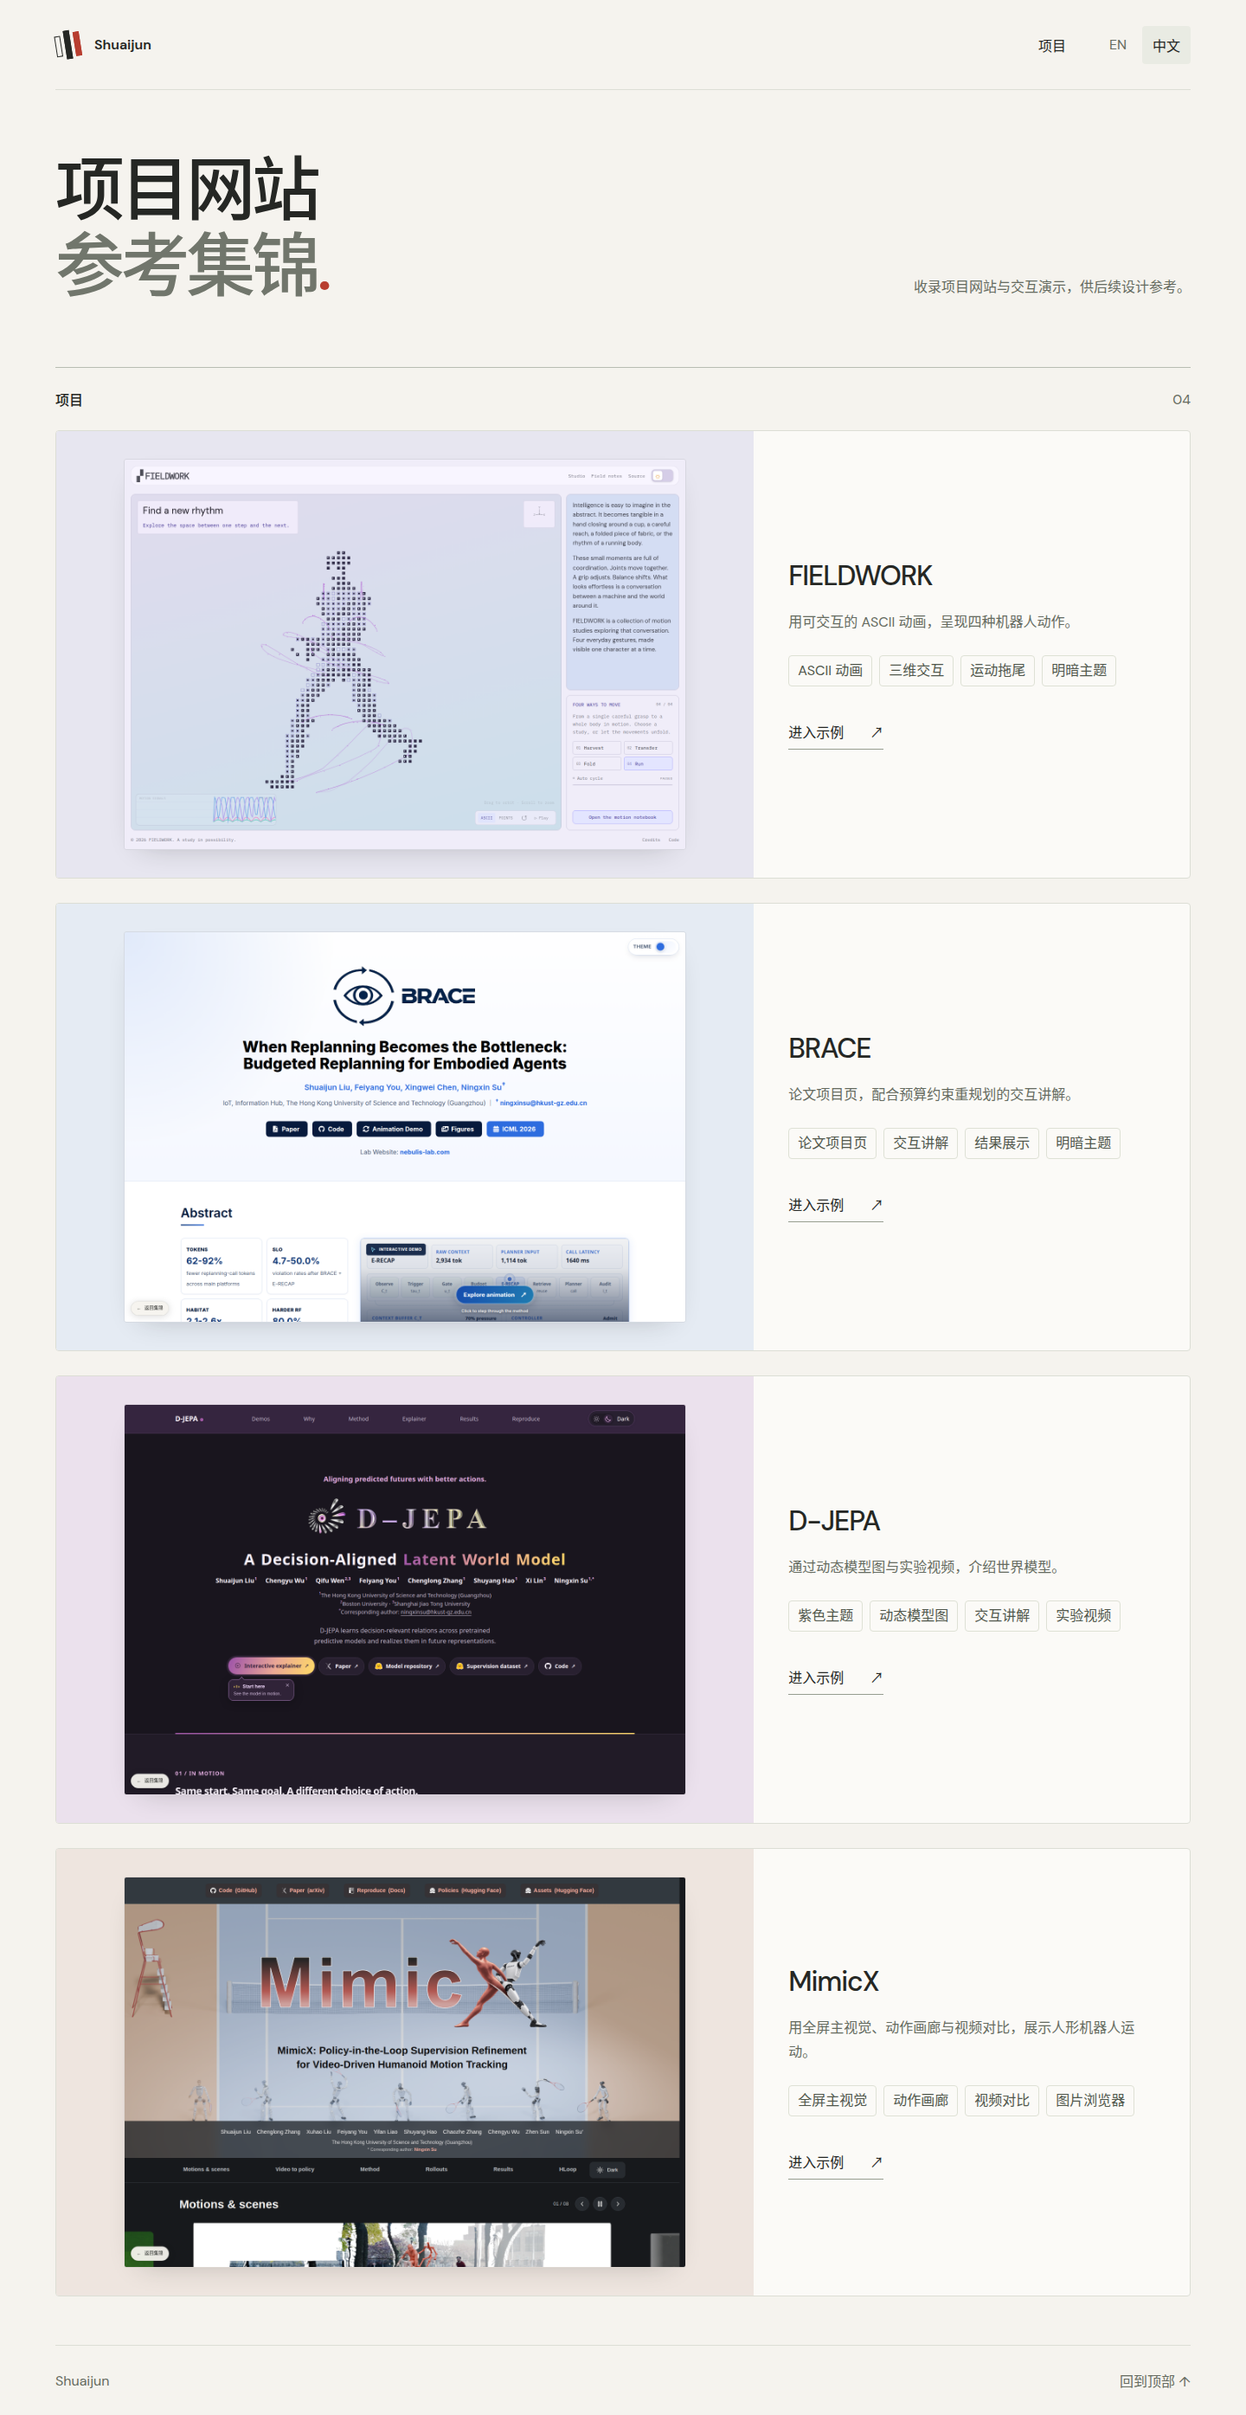
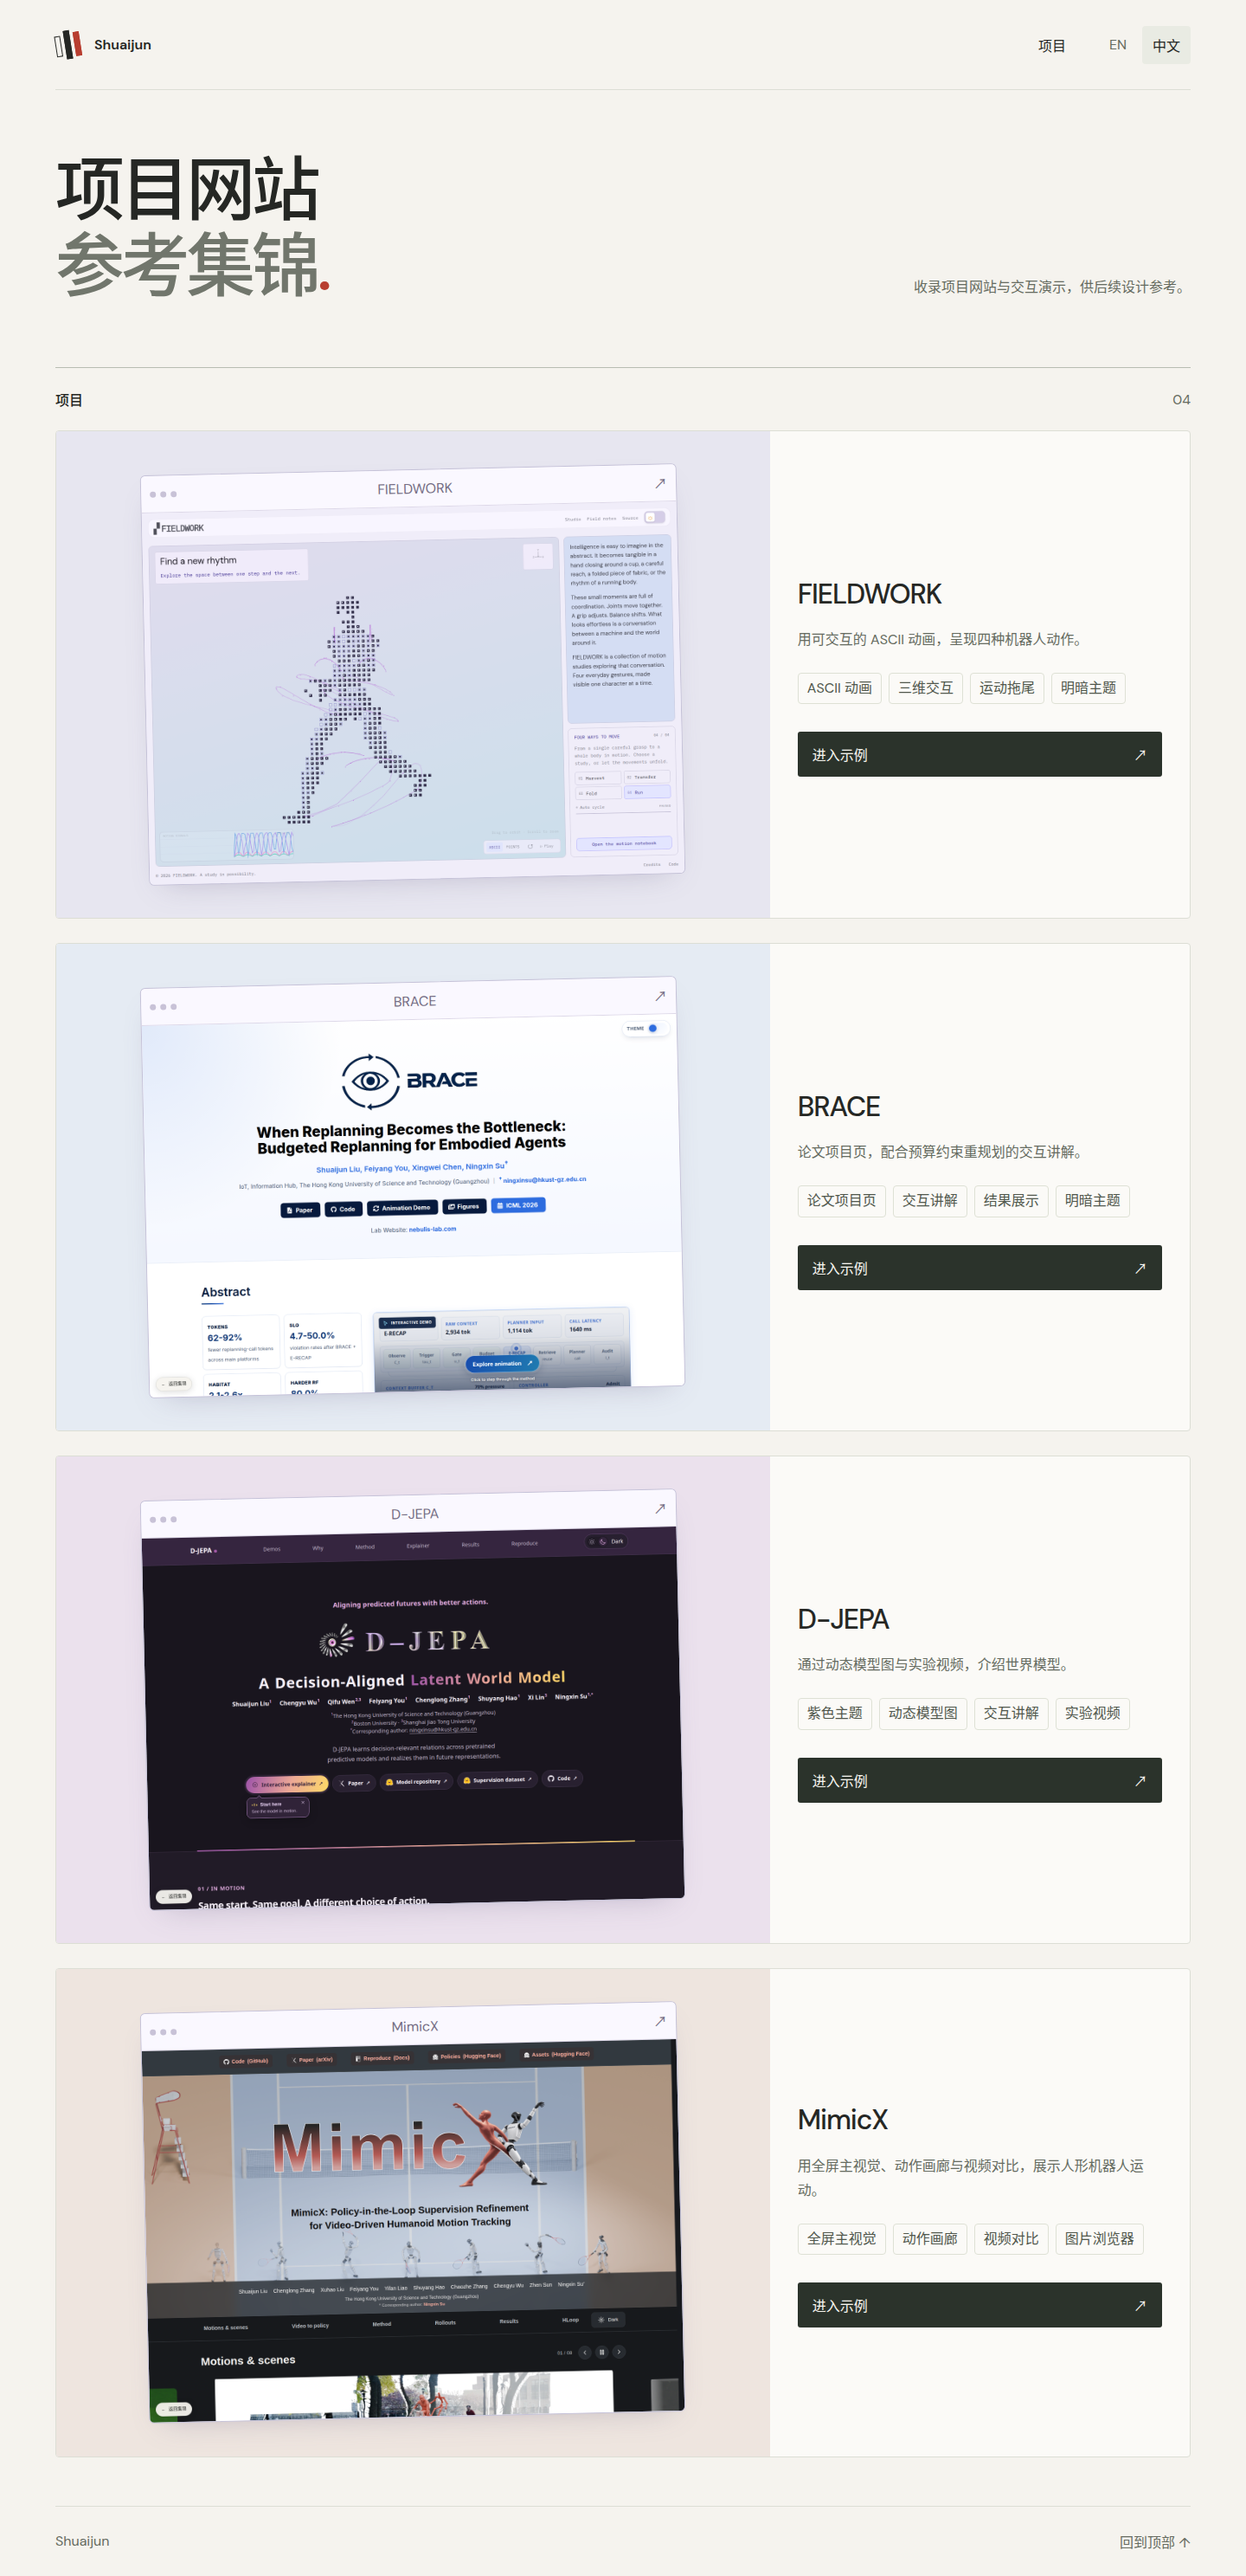
fix: restore browser preview card styling

diff --git a/src/collection.css b/src/collection.css
@@ -189,7 +189,7 @@ h1 > span {
 }
 .example-card {
   display: grid;
-  grid-template-columns: 1.6fr 1fr;
+  grid-template-columns: 1.7fr 1fr;
   border: 1px solid var(--line);
   border-radius: 4px;
   background: #fbfaf7;
@@ -200,28 +200,57 @@ h1 > span {
   align-items: center;
   justify-content: center;
   min-width: 0;
-  padding: 32px;
+  padding: 44px 27px;
   background: var(--preview-bg);
+  overflow: hidden;
 }
-.example-preview img {
+.browser-preview {
+  width: min(100%, 620px);
+  background: #f4f1fa;
+  border: 1px solid #c5c2d8;
+  border-radius: 6px;
+  overflow: hidden;
+  box-shadow: 0 14px 35px -18px #6c65895c;
+  transform: rotate(-1.3deg);
+  transform-origin: center;
+  transition: transform 0.4s, box-shadow 0.4s;
+}
+.example-preview:hover .browser-preview {
+  transform: rotate(0) translateY(-3px);
+  box-shadow: 0 18px 38px -18px #6c65897a;
+}
+.browser-bar {
+  display: flex;
+  justify-content: space-between;
+  align-items: center;
+  gap: 12px;
+  padding: 9px 10px;
+  color: #746d83;
+  background: #faf8ff;
+  border-bottom: 1px solid #ddd8e8;
+  font-size: var(--body-size);
+}
+.browser-dots {
+  display: flex;
+  gap: 5px;
+}
+.browser-dots i {
+  width: 7px;
+  height: 7px;
+  border-radius: 50%;
+  background: #c8c2d7;
+}
+.browser-preview img {
   display: block;
   width: 100%;
-  max-width: 650px;
   height: auto;
-  border-radius: 3px;
-  border: 1px solid #25272414;
-  box-shadow: 0 12px 32px -20px #25272455;
-  transition: transform 0.25s;
-}
-.example-preview:hover img {
-  transform: translateY(-4px);
 }
 .example-info {
   display: flex;
   flex-direction: column;
   align-items: flex-start;
   justify-content: center;
-  padding: 40px;
+  padding: 35px 32px 29px;
 }
 .example-info h3 {
   margin: 0;
@@ -253,16 +282,20 @@ h1 > span {
   padding: 6px 10px;
 }
 .enter-link {
-  display: inline-flex;
+  display: flex;
+  justify-content: space-between;
   align-items: center;
+  align-self: stretch;
   gap: 30px;
-  padding: 8px 0;
-  border-bottom: 1px solid #969d90;
+  padding: 14px 17px;
+  background: #2b332b;
+  color: #f8f7f1;
+  border-radius: 3px;
   font-size: var(--body-size);
+  transition: background 0.2s;
 }
 .enter-link:hover {
-  color: var(--accent);
-  border-color: var(--accent);
+  background: #455344;
 }
 .collection-footer {
   display: flex;
@@ -286,13 +319,16 @@ h1 > span {
     padding: 0 32px;
   }
   .example-card {
-    grid-template-columns: 1.25fr 1fr;
+    grid-template-columns: 1.35fr 1fr;
   }
   .example-info {
     padding: 28px;
   }
   .example-preview {
     padding: 24px;
+  }
+  .browser-preview {
+    transform: none;
   }
 }
 @media (max-width: 700px) {
@@ -332,7 +368,10 @@ h1 > span {
     grid-template-columns: 1fr;
   }
   .example-preview {
-    padding: 20px;
+    padding: 30px 18px;
+  }
+  .browser-preview {
+    transform: rotate(-1deg);
   }
   .example-info {
     padding: 28px 24px;
@@ -351,10 +390,12 @@ h1 > span {
   html {
     scroll-behavior: auto;
   }
-  .example-preview img {
+  .browser-preview,
+  .example-preview:hover .browser-preview {
     transition: none;
-  }
-  .example-preview:hover img {
     transform: none;
+  }
+  .enter-link {
+    transition: none;
   }
 }

diff --git a/src/collection.js b/src/collection.js
@@ -143,7 +143,10 @@ function render(language) {
       (example, index) => `
     <article class="example-card" style="--preview-bg:${example.background}" aria-labelledby="example-${example.slug}">
       <a class="example-preview" href="./examples/${example.slug}/" aria-label="${text.enter(example.name)}">
-        <img src="${example.preview}" alt="${text.preview(example.name)}" width="1440" height="1000" loading="${index === 0 ? "eager" : "lazy"}" fetchpriority="${index === 0 ? "high" : "auto"}" />
+        <div class="browser-preview">
+          <div class="browser-bar" aria-hidden="true"><span class="browser-dots"><i></i><i></i><i></i></span><span>${example.name}</span><span>↗</span></div>
+          <img src="${example.preview}" alt="${text.preview(example.name)}" width="1440" height="1000" loading="${index === 0 ? "eager" : "lazy"}" fetchpriority="${index === 0 ? "high" : "auto"}" />
+        </div>
       </a>
       <div class="example-info">
         <h3 id="example-${example.slug}">${example.name}</h3>

diff --git a/project/decision_log.md b/project/decision_log.md
@@ -35,3 +35,7 @@
 按用户反馈减少小字和字号种类：移除装饰性文案、重复说明及首页参考来源链接，保留预览、项目名、简短描述和进入入口。用户补充“标签可以保留”，因此保留各项目特点标签，并与正文、导航、按钮统一为 16px；项目名和首页标题形成另外两个字号层级。
 
 首次访问默认英文，页头 EN / 中文按钮切换首页文案、标签及无障碍名称；本地保存语言选择，刷新及从示例返回后仍保持。各独立示例内容不变，来源与许可证继续保留在仓库文档中。
+
+## 2026-10-09 — 恢复原有网站卡片视觉
+
+用户希望恢复精简前的网站卡片设计。恢复浏览器窗口外框、轻微倾斜、阴影、悬停扶正效果与深色整行入口按钮，并恢复原有左右栏比例。继续使用精简文案、统一字号、特点标签和默认英文的中英文切换；首页不展示参考来源。
